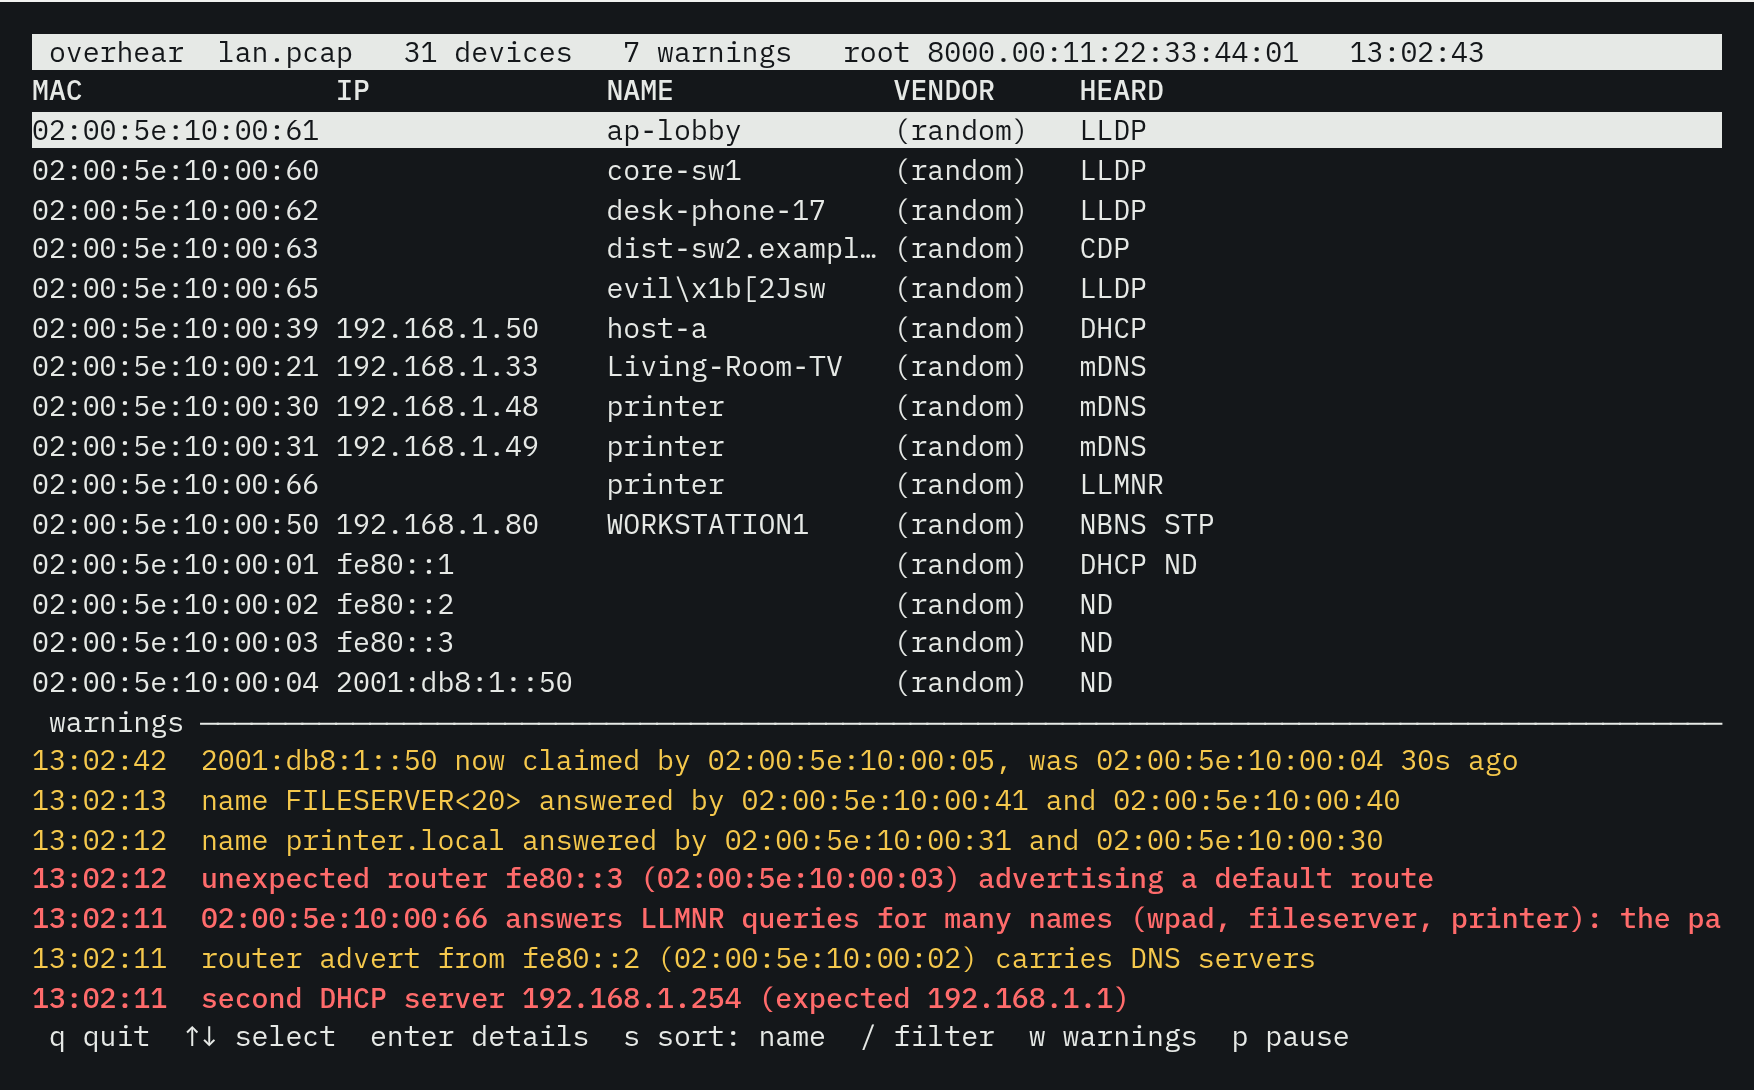
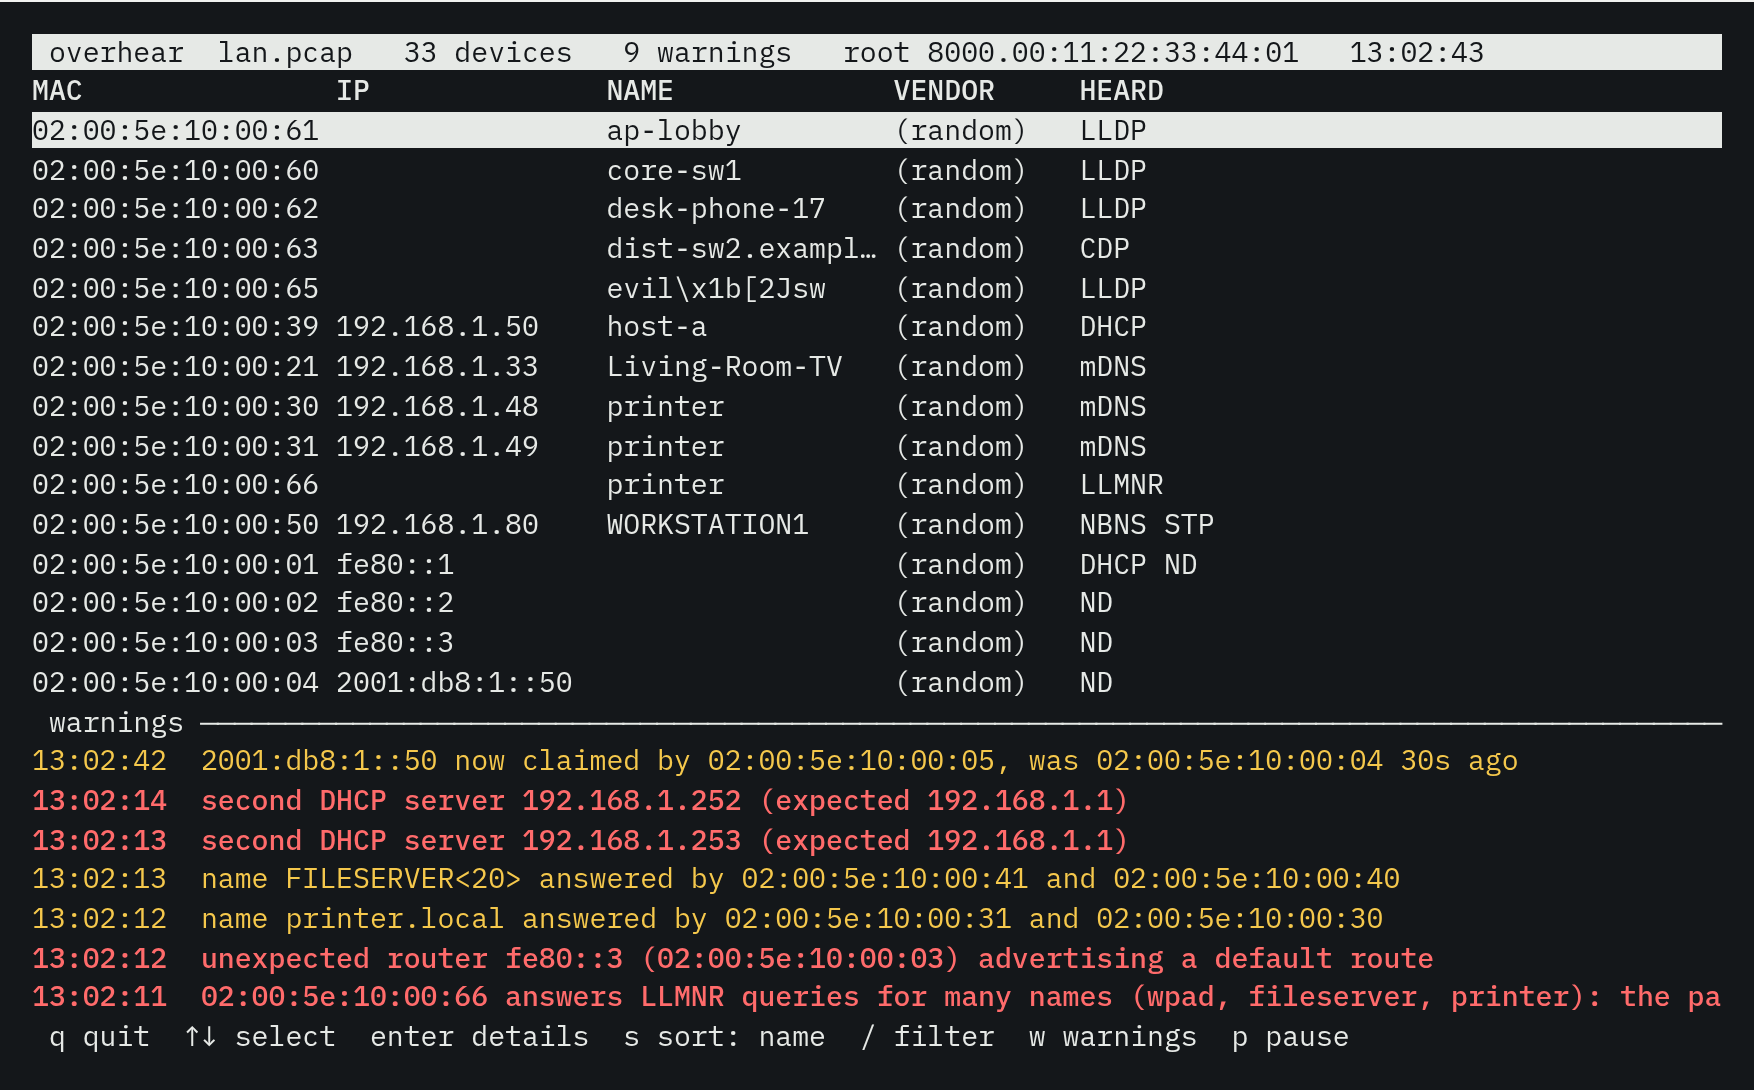
docs: retake the live screen image
The DHCP sample's two new rogue offers changed the live-screen sample:
33 devices and two more second-server warnings. The image is retaken
with the same framing, and its description follows.

diff --git a/site/index.html b/site/index.html
@@ -38,7 +38,7 @@
 <ul class="badges" aria-label="At a glance"><li>Linux</li><li>amd64 and arm64</li><li>Never transmits</li><li>MIT licence</li></ul>
 <p class="hero-note">One small binary, as a line per packet, a verbose dump, JSON lines or a live screen. Version 0.1 is the first release: see <a href="#good-to-know">Good to know</a>.</p>
 </div>
-<figure class="frame"><a href="assets/screens/live.png" aria-label="Open full size: the overhear live screen"><img src="assets/screens/live.png" width="1754" height="1090" alt="The overhear live screen: a table of 31 devices sorted by name, among them a core switch, an access point, a desk phone, a TV and two printers, above a warnings pane listing a second DHCP server, an unexpected IPv6 router, an address conflict and a name-poisoning pattern" fetchpriority="high"></a></figure>
+<figure class="frame"><a href="assets/screens/live.png" aria-label="Open full size: the overhear live screen"><img src="assets/screens/live.png" width="1754" height="1090" alt="The overhear live screen: a table of 33 devices sorted by name, among them a core switch, an access point, a desk phone, a TV and two printers, above a warnings pane listing two rogue DHCP servers, an unexpected IPv6 router, an address conflict and a name-poisoning pattern" fetchpriority="high"></a></figure>
 </div>
 <div class="wrap"><div class="ruler" role="presentation"><span class="swatches" aria-hidden="true"><i></i><i></i><i></i></span></div></div>
 </div>
